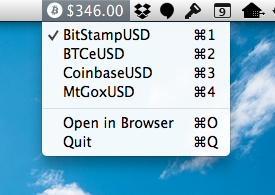
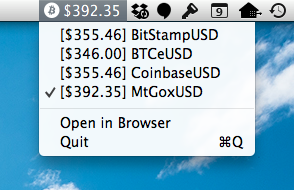
2.1.1 adds live prices to menu

diff --git a/btcbar/AppDelegate.m b/btcbar/AppDelegate.m
@@ -22,7 +22,7 @@
     [[NSNotificationCenter defaultCenter]
      addObserver:self
      selector:@selector(handleTickerNotification:)
-     name:@"ticker_update"
+     name:@"btcbar_ticker_update"
      object:nil];
     
     // Pass each ticker object into a dictionary, get first updates
@@ -50,14 +50,14 @@
     for(id <Fetcher> ticker in tickers)
     {
         NSUInteger tag = [tickers indexOfObject:ticker];
-        NSMenuItem *new_menuitem = [[NSMenuItem alloc] initWithTitle:[ticker ticker_menu] action:@selector(menuActionSetTicker:) keyEquivalent:[NSString stringWithFormat:@"%lu", (unsigned long)tag+1]];
+        NSMenuItem *new_menuitem = [[NSMenuItem alloc] initWithTitle:[ticker ticker_menu] action:@selector(menuActionSetTicker:) keyEquivalent:@""];
         [new_menuitem setTag:tag];
         [btcbarMainMenu addItem:new_menuitem];
     }
     
     // Add the separator, Open in Browser, and Quit items to main menu
     [btcbarMainMenu addItem:[NSMenuItem separatorItem]];
-    [btcbarMainMenu addItem:[[NSMenuItem alloc] initWithTitle:@"Open in Browser" action:@selector(menuActionBrowser:) keyEquivalent:@"o"]];
+    [btcbarMainMenu addItem:[[NSMenuItem alloc] initWithTitle:@"Open in Browser" action:@selector(menuActionBrowser:) keyEquivalent:@""]];
     [btcbarMainMenu addItem:[[NSMenuItem alloc] initWithTitle:@"Quit" action:@selector(menuActionQuit:) keyEquivalent:@"q"]];
     
     // Set the default ticker's menu item state to checked
@@ -101,8 +101,8 @@
     // Update the requested ticker immediately
     [[tickers objectAtIndex:currentFetcherTag] requestUpdate];
     
-    //Force the status item value to update
-    [[NSNotificationCenter defaultCenter] postNotificationName:@"ticker_update" object:self];
+    // Force the status item value to update
+    [[NSNotificationCenter defaultCenter] postNotificationName:@"btcbar_ticker_update" object:[tickers objectAtIndex:currentFetcherTag]];
 
 }
 
@@ -123,13 +123,17 @@
 // CALLBACKS
 //
 
-// Updates the status item with the latest ticker value
+// Handles Fetcher completion notifications
 -(void)handleTickerNotification:(NSNotification *)pNotification
 {
+    // Set the status item to the current Fetcher's ticker
     [btcbarStatusItem setTitle:[(id <Fetcher>)[tickers objectAtIndex:currentFetcherTag] ticker]];
+    
+    // Set the menu item of the notifying Fetcher to its latest ticker value
+    [[[btcbarMainMenu itemArray] objectAtIndex:[tickers indexOfObject:[pNotification object]]] setTitle:[NSString stringWithFormat:@"[%@] %@",[[pNotification object] ticker], [[pNotification object] ticker_menu]]];
 }
 
-// Requests for each ticker to update itself
+// Requests for each Fetcher to update itself
 - (void)updateDataTimerAction:(NSTimer*)timer
 {
     for (id <Fetcher> ticker in tickers)

diff --git a/btcbar/BTCeUSDFetcher.m b/btcbar/BTCeUSDFetcher.m
@@ -34,7 +34,7 @@
     _ticker = tickerString;
     
     // Trigger notification to update ticker
-    [[NSNotificationCenter defaultCenter] postNotificationName:@"ticker_update" object:self];
+    [[NSNotificationCenter defaultCenter] postNotificationName:@"btcbar_ticker_update" object:self];
 }
 
 // Initiates an asyncronous HTTP connection

diff --git a/btcbar/BitStampUSDFetcher.m b/btcbar/BitStampUSDFetcher.m
@@ -34,7 +34,7 @@
     _ticker = tickerString;
     
     // Trigger notification to update ticker
-    [[NSNotificationCenter defaultCenter] postNotificationName:@"ticker_update" object:self];
+    [[NSNotificationCenter defaultCenter] postNotificationName:@"btcbar_ticker_update" object:self];
 }
 
 // Initiates an asyncronous HTTP connection

diff --git a/btcbar/CoinbaseUSDFetcher.m b/btcbar/CoinbaseUSDFetcher.m
@@ -34,7 +34,7 @@
     _ticker = tickerString;
     
     // Trigger notification to update ticker
-    [[NSNotificationCenter defaultCenter] postNotificationName:@"ticker_update" object:self];
+    [[NSNotificationCenter defaultCenter] postNotificationName:@"btcbar_ticker_update" object:self];
 }
 
 // Initiates an asyncronous HTTP connection

diff --git a/btcbar/MtGoxUSDFetcher.m b/btcbar/MtGoxUSDFetcher.m
@@ -34,7 +34,7 @@
     _ticker = tickerString;
     
     // Trigger notification to update ticker
-    [[NSNotificationCenter defaultCenter] postNotificationName:@"ticker_update" object:self];
+    [[NSNotificationCenter defaultCenter] postNotificationName:@"btcbar_ticker_update" object:self];
 }
 
 // Initiates an asyncronous HTTP connection

diff --git a/README.md b/README.md
@@ -19,24 +19,29 @@ Simply place btcbar.app in your `/Applications` folder, and optionally add it to
 
 ## Download
 
-The current version of btcbar (2.1.0) can be downloaded here:
+The current version of btcbar (2.1.1) can be downloaded here:
 
-https://github.com/nearengine/btcbar/releases/download/v2.1.0/btcbar_2_1_0.zip
+https://github.com/nearengine/btcbar/releases/download/v2.1.1/btcbar_2_1_1.zip
 
 It requires OS X 10.7+ and a 64-bit processor.
 
 ## Changelog
 
+### 2.1.1
+
+* Enables live prices in menu
+* Fixes a minor bug in the ticker switching code
+
 ### 2.1.0
 
 * New BTCe/USD ticker
 * Manually refreshes when a ticker is clicked
-* Decreased disk io/cpu time/power usage
-* Greatly increased modularity (tickers now have a protocol, menu is dynamically generated)
+* Decreases disk io/cpu time/power usage
+* Greatly increases modularity (tickers now have a protocol, menu is dynamically generated)
 
 ### 2.0.0
 
-Adds Bitstamp and Coinbase, and a little better backend abstraction so it will be easier to add future tickers.
+* Adds Bitstamp and Coinbase, and a little better backend abstraction so it will be easier to add future tickers.
 
 TODO:
 * Live updating prices for each menu item in the dropdown
@@ -44,7 +49,7 @@ TODO:
 
 ### 1.0.0
 
-The first release, which uses MtGox's USD ticker API.
+* The first release, which uses MtGox's USD ticker API.
 
 ## Donate
 
